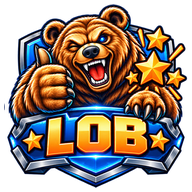
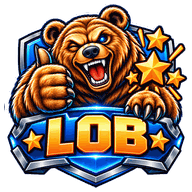
Add files via upload

diff --git a/index.html b/index.html
@@ -1500,7 +1500,7 @@ html.dark .gzForm i.x{box-shadow:0 0 0 1.5px rgba(255,255,255,.5)}
 </script>
 <script>window.ICONS={"pin": "<path d=\"M9 11a3 3 0 1 0 6 0a3 3 0 0 0 -6 0\"/><path d=\"M17.657 16.657l-4.243 4.243a2 2 0 0 1 -2.827 0l-4.244 -4.243a8 8 0 1 1 11.314 0z\"/>", "calplus": "<path d=\"M12.5 21h-6.5a2 2 0 0 1 -2 -2v-12a2 2 0 0 1 2 -2h12a2 2 0 0 1 2 2v5\"/><path d=\"M16 3v4\"/><path d=\"M8 3v4\"/><path d=\"M4 11h16\"/><path d=\"M16 19h6\"/><path d=\"M19 16v6\"/>", "cal": "<path d=\"M4 7a2 2 0 0 1 2 -2h12a2 2 0 0 1 2 2v12a2 2 0 0 1 -2 2h-12a2 2 0 0 1 -2 -2v-12z\"/><path d=\"M16 3v4\"/><path d=\"M8 3v4\"/><path d=\"M4 11h16\"/>", "bell": "<path d=\"M10 5a2 2 0 1 1 4 0a7 7 0 0 1 4 6v3a4 4 0 0 0 2 3h-16a4 4 0 0 0 2 -3v-3a7 7 0 0 1 4 -6\"/><path d=\"M9 17v1a3 3 0 0 0 6 0v-1\"/>", "share": "<path d=\"M6 12m-3 0a3 3 0 1 0 6 0a3 3 0 1 0 -6 0\"/><path d=\"M18 6m-3 0a3 3 0 1 0 6 0a3 3 0 1 0 -6 0\"/><path d=\"M18 18m-3 0a3 3 0 1 0 6 0a3 3 0 1 0 -6 0\"/><path d=\"M8.7 10.7l6.6 -3.4\"/><path d=\"M8.7 13.3l6.6 3.4\"/>", "filter": "<path d=\"M4 4h16v2.172a2 2 0 0 1 -.586 1.414l-4.414 4.414v7l-6 2v-8.5l-4.48 -4.928a2 2 0 0 1 -.52 -1.345v-2.227z\"/>", "target": "<path d=\"M12 12m-1 0a1 1 0 1 0 2 0a1 1 0 1 0 -2 0\"/><path d=\"M12 12m-5 0a5 5 0 1 0 10 0a5 5 0 1 0 -10 0\"/><path d=\"M12 12m-9 0a9 9 0 1 0 18 0a9 9 0 1 0 -18 0\"/>", "list": "<path d=\"M9 6l11 0\"/><path d=\"M9 12l11 0\"/><path d=\"M9 18l11 0\"/><path d=\"M5 6l0 .01\"/><path d=\"M5 12l0 .01\"/><path d=\"M5 18l0 .01\"/>", "chart": "<path d=\"M3 13a1 1 0 0 1 1 -1h4a1 1 0 0 1 1 1v6a1 1 0 0 1 -1 1h-4a1 1 0 0 1 -1 -1z\"/><path d=\"M15 9a1 1 0 0 1 1 -1h4a1 1 0 0 1 1 1v10a1 1 0 0 1 -1 1h-4a1 1 0 0 1 -1 -1z\"/><path d=\"M9 5a1 1 0 0 1 1 -1h4a1 1 0 0 1 1 1v14a1 1 0 0 1 -1 1h-4a1 1 0 0 1 -1 -1z\"/><path d=\"M4 20h14\"/>", "search": "<path d=\"M10 10m-7 0a7 7 0 1 0 14 0a7 7 0 1 0 -14 0\"/><path d=\"M21 21l-6 -6\"/>", "download": "<path d=\"M4 17v2a2 2 0 0 0 2 2h12a2 2 0 0 0 2 -2v-2\"/><path d=\"M7 11l5 5l5 -5\"/><path d=\"M12 4l0 12\"/>", "file": "<path d=\"M14 3v4a1 1 0 0 0 1 1h4\"/><path d=\"M17 21h-10a2 2 0 0 1 -2 -2v-14a2 2 0 0 1 2 -2h7l5 5v11a2 2 0 0 1 -2 2z\"/><path d=\"M9 9l1 0\"/><path d=\"M9 13l6 0\"/><path d=\"M9 17l6 0\"/>", "chev": "<path d=\"M9 6l6 6l-6 6\"/>", "home": "<path d=\"M5 12l-2 0l9 -9l9 9l-2 0\"/><path d=\"M5 12v7a2 2 0 0 0 2 2h10a2 2 0 0 0 2 -2v-7\"/><path d=\"M9 21v-6a2 2 0 0 1 2 -2h2a2 2 0 0 1 2 2v6\"/>", "away": "<path d=\"M7 17l10 -10\"/><path d=\"M8 7l9 0l0 9\"/>", "clock": "<path d=\"M3 12a9 9 0 1 0 18 0a9 9 0 0 0 -18 0\"/><path d=\"M12 7v5l3 3\"/>", "world": "<path d=\"M3 12a9 9 0 1 0 18 0a9 9 0 0 0 -18 0\"/><path d=\"M3.6 9h16.8\"/><path d=\"M3.6 15h16.8\"/><path d=\"M11.5 3a17 17 0 0 0 0 18\"/><path d=\"M12.5 3a17 17 0 0 1 0 18\"/>", "chat": "<path d=\"M3 20l1.3 -3.9c-2.324 -3.437 -1.426 -7.872 2.1 -10.374c3.526 -2.501 8.59 -2.296 11.845 .48c3.255 2.777 3.695 7.266 1.029 10.501c-2.666 3.235 -7.615 4.215 -11.574 2.293l-4.7 1\"/>", "lock": "<path d=\"M5 13a2 2 0 0 1 2 -2h10a2 2 0 0 1 2 2v6a2 2 0 0 1 -2 2h-10a2 2 0 0 1 -2 -2z\"/><path d=\"M11 16a1 1 0 1 0 2 0a1 1 0 0 0 -2 0\"/><path d=\"M8 11v-4a4 4 0 1 1 8 0v4\"/>"};window.ic=function(n,c){return '<svg class="ic'+(c?' '+c:'')+'" viewBox="0 0 24 24" aria-hidden="true">'+(ICONS[n]||'')+'</svg>';};window.actBtn=function(cl,icon,label){return '<button class="action '+cl+'" type="button"><span class="aIcon">'+ic(icon)+'</span>'+label+'</button>';};</script>
 </head>
-<body><div class="testRibbon" role="note">Test 1.9.1.107 · nichts wird gespeichert</div>
+<body><div class="testRibbon" role="note">Test 1.9.1.108 · nichts wird gespeichert</div>
 <div id="updateBanner" class="updateBanner" role="status" aria-live="polite" hidden><span class="updateBannerIcon" aria-hidden="true">&#8635;</span><div class="updateBannerText"><b>Neue Version verfügbar</b><span>Kurz aktualisieren, dann bist du auf dem neuesten Stand.</span></div><button id="updateBannerReload" class="updateBannerBtn" type="button">Aktualisieren</button><button id="updateBannerClose" class="updateBannerClose" type="button" aria-label="Schließen">&times;</button></div>
 <div class="app">
 <svg width="0" height="0" style="position:absolute" aria-hidden="true"><defs><g id="gearPath" fill="none" stroke="currentColor" stroke-width="1.8" stroke-linejoin="round"><path d="M12 8.5a3.5 3.5 0 1 0 0 7a3.5 3.5 0 0 0 0-7z M19.4 13.5a7.7 7.7 0 0 0 0-3l2-1.6-2-3.4-2.4 1a7.6 7.6 0 0 0-2.6-1.5L14 2.5h-4l-.4 2.5a7.6 7.6 0 0 0-2.6 1.5l-2.4-1-2 3.4 2 1.6a7.7 7.7 0 0 0 0 3l-2 1.6 2 3.4 2.4-1a7.6 7.6 0 0 0 2.6 1.5l.4 2.5h4l.4-2.5a7.6 7.6 0 0 0 2.6-1.5l2.4 1 2-3.4z"/></g></defs></svg>
@@ -1532,7 +1532,7 @@ Tippe auf einen Gegner, um alle Spiele gegen ihn zu sehen.
   </section>
 <section id="scheduleView" hidden><div class="scheduleHead"><div id="scheduleTitle" class="scheduleTitle">Spielplan</div><div id="scheduleCount" class="small"></div></div><div id="scheduleSticky" class="scheduleSticky"><div class="scheduleModes"><button id="chronoBtn" class="modeBtn active" type="button"><svg class="ic" viewBox="0 0 24 24" aria-hidden="true"><path d="M9 6l11 0"/><path d="M9 12l11 0"/><path d="M9 18l11 0"/><path d="M5 6l0 .01"/><path d="M5 12l0 .01"/><path d="M5 18l0 .01"/></svg>Chronologisch</button><button id="monthBtn" class="modeBtn" type="button"><svg class="ic" viewBox="0 0 24 24" aria-hidden="true"><path d="M4 7a2 2 0 0 1 2 -2h12a2 2 0 0 1 2 2v12a2 2 0 0 1 -2 2h-12a2 2 0 0 1 -2 -2v-12z"/><path d="M16 3v4"/><path d="M8 3v4"/><path d="M4 11h16"/></svg>Kalender</button></div><div class="scheduleFilters"><div class="filterRow"><button id="filterToggle" class="filterToggle" type="button" aria-expanded="false"><span><svg class="ic" viewBox="0 0 24 24" aria-hidden="true"><path d="M4 4h16v2.172a2 2 0 0 1 -.586 1.414l-4.414 4.414v7l-6 2v-8.5l-4.48 -4.928a2 2 0 0 1 -.52 -1.345v-2.227z"/></svg>Filter</span><span id="filterSummary" class="filterSummary">Alle Spiele</span></button><button id="todayBtn" class="todayBtn" type="button" aria-label="Zum heutigen Tag springen"><svg class="ic" viewBox="0 0 24 24" aria-hidden="true"><path d="M12 12m-1 0a1 1 0 1 0 2 0a1 1 0 1 0 -2 0"/><path d="M12 12m-5 0a5 5 0 1 0 10 0a5 5 0 1 0 -10 0"/><path d="M12 12m-9 0a9 9 0 1 0 18 0a9 9 0 1 0 -18 0"/></svg>Heute</button></div><div id="filterPanel" class="filterPanel" aria-hidden="true"><button class="filterOption teamAOpt selected" type="button" data-filter="A">U15 A</button><button class="filterOption teamBOpt selected" type="button" data-filter="B">U15 B</button><button class="filterOption homeOpt selected" type="button" data-filter="home">Heim</button><button class="filterOption awayOpt selected" type="button" data-filter="away">Auswärts</button><button id="filterReset" class="filterReset" type="button">↺ Alle Filter zurücksetzen</button></div></div></div><div class="tableLinks"><a href="https://ehv-nrw.de/leagues/league/u15/lln/66/" target="_blank" rel="noopener noreferrer"><svg class="ic" viewBox="0 0 24 24" aria-hidden="true"><path d="M3 13a1 1 0 0 1 1 -1h4a1 1 0 0 1 1 1v6a1 1 0 0 1 -1 1h-4a1 1 0 0 1 -1 -1z"/><path d="M15 9a1 1 0 0 1 1 -1h4a1 1 0 0 1 1 1v10a1 1 0 0 1 -1 1h-4a1 1 0 0 1 -1 -1z"/><path d="M9 5a1 1 0 0 1 1 -1h4a1 1 0 0 1 1 1v14a1 1 0 0 1 -1 1h-4a1 1 0 0 1 -1 -1z"/><path d="M4 20h14"/></svg>Tabelle U15 A</a><a href="https://ehv-nrw.de/leagues/league/u15/bzl/67/" target="_blank" rel="noopener noreferrer"><svg class="ic" viewBox="0 0 24 24" aria-hidden="true"><path d="M3 13a1 1 0 0 1 1 -1h4a1 1 0 0 1 1 1v6a1 1 0 0 1 -1 1h-4a1 1 0 0 1 -1 -1z"/><path d="M15 9a1 1 0 0 1 1 -1h4a1 1 0 0 1 1 1v10a1 1 0 0 1 -1 1h-4a1 1 0 0 1 -1 -1z"/><path d="M9 5a1 1 0 0 1 1 -1h4a1 1 0 0 1 1 1v14a1 1 0 0 1 -1 1h-4a1 1 0 0 1 -1 -1z"/><path d="M4 20h14"/></svg>Tabelle U15 B</a></div><div id="gamesList" class="list"></div><div id="calendarView" class="calendarWrap" hidden></div></section>
 <section id="downloadsView" hidden><div class="infoCard"><div class="dlTitle"><svg class="ic" viewBox="0 0 24 24" aria-hidden="true"><path d="M4 17v2a2 2 0 0 0 2 2h12a2 2 0 0 0 2 -2v-2"/><path d="M7 11l5 5l5 -5"/><path d="M12 4l0 12"/></svg>Kalender-Downloads</div><div class="small" style="margin-bottom:14px">Lade den Spielplan als Kalenderdatei für dein Handy herunter oder drucke ihn als PDF.</div><div class="downloadCards"><button id="downloadCal" class="downloadCard dlCal"><span class="dlIcon" style="background:var(--navy)"><svg class="ic" viewBox="0 0 24 24" aria-hidden="true"><path d="M12.5 21h-6.5a2 2 0 0 1 -2 -2v-12a2 2 0 0 1 2 -2h12a2 2 0 0 1 2 2v5"/><path d="M16 3v4"/><path d="M8 3v4"/><path d="M4 11h16"/><path d="M16 19h6"/><path d="M19 16v6"/></svg></span><b>Kalender herunterladen</b><small>Mannschaft, Heim/Auswärts und Zeitraum selbst auswählen</small><svg class="ic dlGo" viewBox="0 0 24 24" aria-hidden="true"><path d="M9 6l6 6l-6 6"/></svg></button><button id="downloadPdf" class="downloadCard"><span class="dlIcon" style="background:#fde8e6;color:#d6352b"><svg class="ic" viewBox="0 0 24 24" aria-hidden="true"><path d="M14 3v4a1 1 0 0 0 1 1h4"/><path d="M17 21h-10a2 2 0 0 1 -2 -2v-14a2 2 0 0 1 2 -2h7l5 5v11a2 2 0 0 1 -2 2z"/><path d="M9 9l1 0"/><path d="M9 13l6 0"/><path d="M9 17l6 0"/></svg></span><b>Spielplan als PDF</b><small>Alle Spiele · Ergebnisse, wenn vorhanden · zum Ausdrucken</small><svg class="ic dlGo" viewBox="0 0 24 24" aria-hidden="true"><path d="M9 6l6 6l-6 6"/></svg></button></div></div><div class="infoCard dlInsta"><div class="dlTitle"><svg class="ic" viewBox="0 0 24 24" aria-hidden="true"><path d="M4 8a4 4 0 0 1 4 -4h8a4 4 0 0 1 4 4v8a4 4 0 0 1 -4 4h-8a4 4 0 0 1 -4 -4z"/><path d="M9 12a3 3 0 1 0 6 0a3 3 0 0 0 -6 0"/><path d="M16.5 7.5v.01"/></svg>Bilder für Social Media</div><div class="small" style="margin-bottom:14px">Spieltagsbild ab 5 Tage vor dem Spiel, Ergebnisbild bis 5 Tage nach dem Spiel – zum Teilen oder Speichern.</div><div id="dlInstaList" class="downloadCards"></div></div></section>
-<section id="infoView" hidden><div class="inHero"><img src="logo.png" alt="" width="54" height="54"><div><b>ESV Grizzlys Bergkamen</b><span>U15 · Saison 2026/27</span></div><em class="inVer">1.9.1.107</em></div>
+<section id="infoView" hidden><div class="inHero"><img src="logo.png" alt="" width="54" height="54"><div><b>ESV Grizzlys Bergkamen</b><span>U15 · Saison 2026/27</span></div><em class="inVer">1.9.1.108</em></div>
 <div class="infoCard inCard"><div class="inHead"><b>Dein digitaler Spielplan</b></div><p class="inText">Alle Termine und Ergebnisse von <b>U15 A</b> und <b>U15 B</b> an einem Ort – immer aktuell, auch unterwegs.</p><button id="shareApp" class="action inShare" type="button"><svg class="ic" viewBox="0 0 24 24" aria-hidden="true"><path d="M6 12m-3 0a3 3 0 1 0 6 0a3 3 0 1 0 -6 0"/><path d="M18 6m-3 0a3 3 0 1 0 6 0a3 3 0 1 0 -6 0"/><path d="M18 18m-3 0a3 3 0 1 0 6 0a3 3 0 1 0 -6 0"/><path d="M8.7 10.7l6.6 -3.4"/><path d="M8.7 13.3l6.6 3.4"/></svg>App teilen</button></div>
 <div class="infoCard inCard"><div class="inHead"><b>Grizzlys Teamseiten</b></div><span class="small">Kader, Tabellen und News auf den offiziellen Vereinsseiten.</span><div class="inTeams"><a class="inTeam teamA" href="http://www.grizzlys-bergkamen.de/teams/team.php?slug=grizzlys-u15a" target="_blank" rel="noopener noreferrer"><span class="inBadge">A</span><span class="inTeamTx"><b>Grizzlys U15 A</b><small>Teamseite öffnen</small></span><span class="inGo"><svg class="ic" viewBox="0 0 24 24" aria-hidden="true"><path d="M12 6h-6a2 2 0 0 0 -2 2v10a2 2 0 0 0 2 2h10a2 2 0 0 0 2 -2v-6"/><path d="M11 13l9 -9"/><path d="M15 4h5v5"/></svg></span></a><a class="inTeam teamB" href="http://www.grizzlys-bergkamen.de/teams/team.php?slug=grizzlys-u15b" target="_blank" rel="noopener noreferrer"><span class="inBadge">B</span><span class="inTeamTx"><b>Grizzlys U15 B</b><small>Teamseite öffnen</small></span><span class="inGo"><svg class="ic" viewBox="0 0 24 24" aria-hidden="true"><path d="M12 6h-6a2 2 0 0 0 -2 2v10a2 2 0 0 0 2 2h10a2 2 0 0 0 2 -2v-6"/><path d="M11 13l9 -9"/><path d="M15 4h5v5"/></svg></span></a></div></div>
 <p class="inNote">Die Logos stammen aus den jeweiligen Vereins- bzw. öffentlich verfügbaren Webauftritten. Ist ein Logo nicht erreichbar, zeigt die App ein neutrales Kürzel.</p><p class="inMade">App entwickelt von <b>JAZM</b><span id="inMadeVer"></span></p></section>
@@ -2060,7 +2060,7 @@ async function submitBugReport(){
       area,
       description,
       contact,
-      appVersion:"1.9.1.107",
+      appVersion:"1.9.1.108",
       platform:detectPlatform(),
       userAgent:navigator.userAgent||"",
       pushRegistered:getPushRegistrationStatus(),
@@ -4191,6 +4191,7 @@ renderInstaDownloads(); setInterval(()=>{try{renderInstaDownloads()}catch(e){}},
 /* ===== v66: News-Bereich – Hinweise, Spieländerungen, Neues in der App ===== */
 /* Nur Neuerungen, die für Nutzer sichtbar oder spürbar sind. Neueste Version oben. */
 const APP_NEWS=[
+  {v:"1.9.1.108",d:"Oktober 2026",items:["Schneller: Logos und Bilder sind deutlich kleiner – die App lädt beim ersten Öffnen schneller und braucht weniger Datenvolumen."]},
   {v:"1.9.1.103",d:"Oktober 2026",items:["In Einstellungen und Info bringt dich ein Wisch nach rechts zurück; das News-Fenster schließt sich mit einem Wisch nach rechts oder unten.","Beim Scrollen zeigt eine schmale Leiste rechts, wo du auf der Seite bist – im Spielplan mit dem Monat. Den Balken kannst du anfassen und ziehen, um schnell zu springen.","Wischen: Mit einem Wisch nach links oder rechts wechselst du zwischen Start, Spielplan, Gegner und Downloads – die Seite folgt dabei deinem Finger."]},
   {v:"1.9.1.95",d:"Oktober 2026",items:[
     "Startseite: nächstes und letztes Spiel von U15 A und U15 B auf einen Blick, die Mannschafts-Kacheln sind kompakter.",

diff --git a/sw.js b/sw.js
@@ -57,7 +57,7 @@ self.addEventListener("notificationclick", event => {
   );
 });
 
-const CACHE = "grizzlys-u15-test-v107";
+const CACHE = "grizzlys-u15-test-v108";
 
 const CORE = [
   "./",
